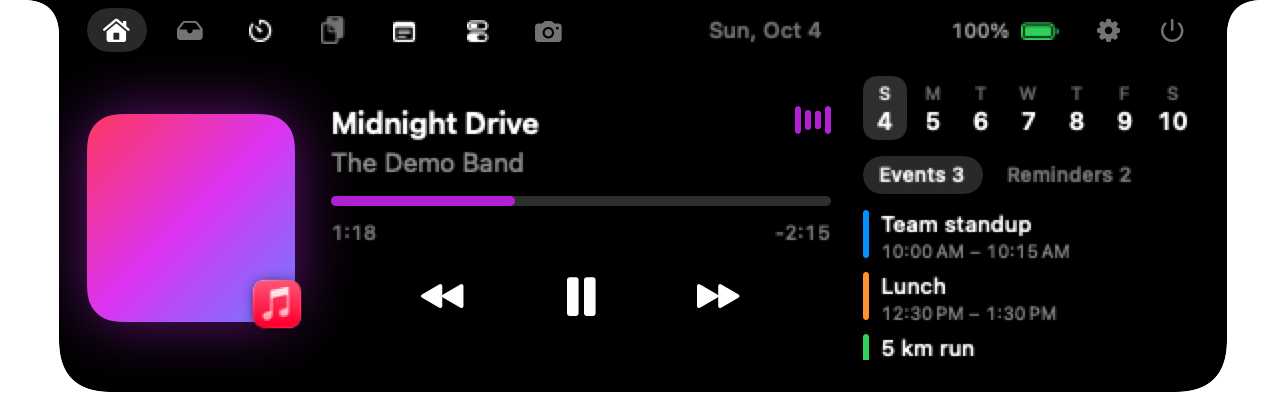
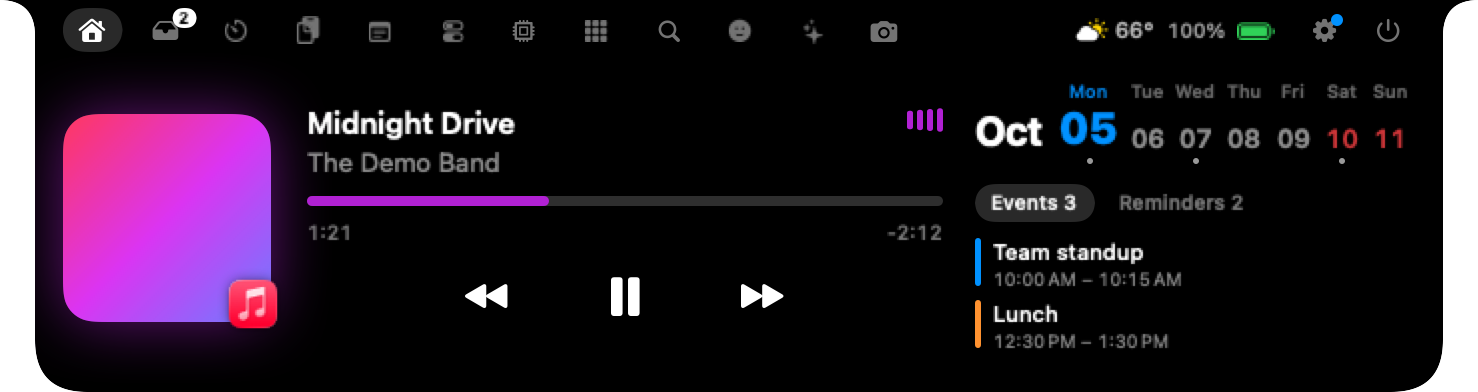
README and site: sections for calls and the closed notch, new features in place, fresh screenshots of Home, Tools, calls and idle ears

diff --git a/docs/index.html b/docs/index.html
@@ -262,7 +262,7 @@
         <div class="menubar"><div class="l"><b></b><b>Nunsseop</b><span class="en">File</span><span class="ko">파일</span><span class="en">Edit</span><span class="ko">편집</span></div><div class="r"><span>100%</span><span id="clock">9:41</span></div></div>
         <div class="live-notch" id="notch" role="button" tabindex="0" aria-label="Open the notch">
           <div class="ears"><span class="art"></span><span class="bars"><i></i><i></i><i></i><i></i></span></div>
-          <img src="images/home.png" alt="Expanded notch with now playing and calendar" width="643" height="208">
+          <img src="images/home.png" alt="Expanded notch with now playing and calendar" width="739" height="196">
         </div>
       </div>
     </div>
@@ -383,8 +383,8 @@
       <article class="tile t-half reveal">
         <div class="ico">🧩</div>
         <h3><span class="en">Make it yours</span><span class="ko">내게 맞게 구성</span></h3>
-        <p class="en">Pick your tabs and their order, what the header and the collapsed notch show, and which pop-ups you get. Even when idle, each side of the collapsed notch can show Claude Code usage left, battery, weather or the date. Anything you turn off stops running. On macOS 26 it wears Liquid Glass, and it can hide while the lid is closed.</p>
-        <p class="ko">탭과 순서, 헤더와 접힌 노치에 보일 것, 받을 알림을 직접 고르세요. 평소에도 접힌 노치 양쪽에 Claude Code 남은 양, 배터리, 날씨, 날짜를 띄워 둘 수 있어요. 꺼 둔 기능은 동작하지 않습니다. macOS 26에서는 Liquid Glass로 그려지고, 덮개를 닫았을 때 숨길 수도 있어요.</p>
+        <p class="en">Pick your tabs and their order, what the header and the collapsed notch show, and which pop-ups you get. During a call it shows the call app and how long you've been talking, and when idle each side of the collapsed notch can show Claude Code usage left, battery, weather or the date. Anything you turn off stops running. On macOS 26 it wears Liquid Glass, and it can hide while the lid is closed.</p>
+        <p class="ko">탭과 순서, 헤더와 접힌 노치에 보일 것, 받을 알림을 직접 고르세요. 통화 중에는 통화 앱과 통화 시간이, 평소에는 접힌 노치 양쪽에 Claude Code 남은 양, 배터리, 날씨, 날짜를 띄워 둘 수 있어요. 꺼 둔 기능은 동작하지 않습니다. macOS 26에서는 Liquid Glass로 그려지고, 덮개를 닫았을 때 숨길 수도 있어요.</p>
       </article>
       <article class="tile t-half reveal">
         <div class="ico">🌏</div>
@@ -576,7 +576,7 @@ open build/Nunsseop.app</pre></div>
     { e: '📥', img: 'shelf.png', en: ['Shelf', 'Drop files on the notch and drag them out later. Drop them on the AirDrop tile to send them straight away.'], ko: ['선반', '파일을 노치에 놓아 두고 나중에 끌어내세요. AirDrop 칸에 놓으면 바로 보내집니다.'] },
     { e: '✨', img: 'tab-ai.png', en: ['AI usage', 'Claude Code and Codex limits with reset times, plus Claude Code’s recent token use. No login, nothing to set up.'], ko: ['AI 사용량', 'Claude Code와 Codex의 한도와 초기화 시각, Claude Code의 최근 토큰 사용량. 로그인도 설정도 필요 없습니다.'] },
     { e: '⏱', img: 'tab-timer.png', en: ['Timer', 'Countdown, Pomodoro and stopwatch. The time left stays on the collapsed notch.'], ko: ['타이머', '카운트다운, 뽀모도로, 스톱워치. 접힌 노치에 남은 시간이 그대로 보입니다.'] },
-    { e: '🎛', img: 'tab-tools.png', en: ['Tools', 'Switch speakers, mute the mic, keep the Mac awake, record the screen and eject drives.'], ko: ['도구', '스피커 전환, 마이크 음소거, 잠자기 방지, 화면 녹화, 드라이브 꺼내기.'] },
+    { e: '🎛', img: 'tab-tools.png', en: ['Tools', 'Switch speakers, mute the mic, keep the Mac awake, record the screen, eject drives, pick a color from the screen and copy text out of any part of it.'], ko: ['도구', '스피커 전환, 마이크 음소거, 잠자기 방지, 화면 녹화, 드라이브 꺼내기, 화면에서 색 찍기와 글자 복사.'] },
     { e: '📊', img: 'tab-system.png', en: ['System', 'CPU, memory, disk and network at a glance, plus your mouse and keyboard batteries.'], ko: ['시스템', 'CPU, 메모리, 디스크, 네트워크를 한눈에. 마우스와 키보드 배터리도 함께.'] },
     { e: '😀', img: 'tab-emoji.png', en: ['Emoji', 'Every emoji, searchable by name, with your recent picks first. Click to copy.'], ko: ['이모지', '모든 이모지를 이름으로 검색하고, 최근에 쓴 것부터. 클릭하면 복사됩니다.'] }
   ];

diff --git a/README.md b/README.md
@@ -4,7 +4,7 @@
 
 <p align="center">
   <b>Your MacBook notch, finally useful.</b><br>
-  Music, files, a Spotlight-style launcher, AI usage, your calendar and system HUDs, one hover away.
+  Music, calls, files, a Spotlight-style launcher, AI usage, your calendar and system HUDs, one hover away.
 </p>
 
 <p align="center">
@@ -59,8 +59,9 @@ There's no Dock icon. Nunsseop lives in the notch.
 | :---: | :---: |
 | <img src="docs/images/tab-search.png" alt="Search showing an app, a command and a setting"><br>**Search.** A launcher for apps, files, commands, clipboard, emoji and sums, on any shortcut you like. | <img src="docs/images/tab-ai.png" alt="AI usage for Claude Code and Codex"><br>**AI usage.** Claude Code and Codex limits, no login needed. |
 | <img src="docs/images/shelf.png" alt="File shelf with AirDrop tile"><br>**Shelf.** Park files in the notch, or drop them on AirDrop. | <img src="docs/images/tab-timer.png" alt="Timer tab"><br>**Timer.** Countdown, Pomodoro and stopwatch. |
-| <img src="docs/images/tab-tools.png" alt="Tools tab"><br>**Tools.** Audio output, mic mute, keep awake, screen recording. | <img src="docs/images/tab-system.png" alt="System tab with device batteries"><br>**System.** CPU, memory, disk, network and device batteries. |
+| <img src="docs/images/tab-tools.png" alt="Tools tab"><br>**Tools.** Audio output, mic mute, keep awake, screen recording, color picker and text capture. | <img src="docs/images/tab-system.png" alt="System tab with device batteries"><br>**System.** CPU, memory, disk, network and device batteries. |
 | <img src="docs/images/tab-emoji.png" alt="Emoji picker"><br>**Emoji.** Every emoji, searchable, one click to copy. | <img src="docs/images/hud-headphones.png" alt="Headphone battery HUD"><br>**HUDs.** Volume, brightness, AirPods battery and more. |
+| <img src="docs/images/collapsed-call.png" alt="Collapsed notch during a Zoom call"><br>**Calls.** The call app and how long you've been talking. | <img src="docs/images/collapsed-idle.png" alt="Collapsed notch showing Claude Code usage left and weather"><br>**At a glance.** Pick what each side of the closed notch shows. |
 
 ## Everything it does
 
@@ -68,20 +69,26 @@ There's no Dock icon. Nunsseop lives in the notch.
 - **Now playing from any app.** Music, Spotify, YouTube Music, and browsers like Safari, Chrome, Arc, Dia and Aside. Artwork, controls and a progress bar you can drag.
 - **Synced lyrics** from [LRCLIB](https://lrclib.net), under the title or under the notch while you work.
 - **Sneak peek.** When the track changes, the title slides out for a moment.
+- **Podcasts and long videos** get 15-second skips and a speed button (1× to 2×), when the player supports them.
 
 **🗂 Get things done**
 - **Shelf.** Drag files onto the notch and back out later. Screenshots and finished downloads can land there automatically.
-- **Calendar and reminders.** Your week, today's events, and reminders you can tick off.
+- **Calendar and reminders.** Today in large digits, your week with a dot on busy days, today's events, and reminders you can tick off.
 - **Search that can replace Spotlight or Raycast.** Apps (even ones outside Applications), files, system commands and settings, clipboard history, emoji (start with `:`) and sums like `12*(3+4)`, ranked by what you open most. Initials work: `vsc` finds Visual Studio Code. Arrow keys pick, Return opens.
 - **Your shortcut.** <kbd>⇧⌘Space</kbd> by default, or record any combination in Settings. Nunsseop tells you when macOS or another app already uses it.
-- **Timer, clipboard history, notes and an emoji picker.** Clipboard history stays in memory and skips anything a password manager marks as secret.
+- **Timer, clipboard history, notes and an emoji picker.** Clipboard history stays in memory and skips anything a password manager marks as secret. Tracking parameters like `utm_` and `fbclid` are stripped from links you copy.
 
 **💻 Your Mac**
 - **System HUDs.** Volume, brightness (including DDC external displays), keyboard backlight, charging, Caps Lock and AirPods battery appear in the notch. It can take over the volume and brightness keys so the system HUD stays away.
 - **System stats and batteries.** CPU, memory, disk, network, plus your mouse, keyboard and trackpad, with a warning when one runs low.
 - **Camera and mic indicator.** A dot on the notch while any app uses them.
-- **Tools.** Switch audio output, mute the mic, keep the Mac awake, record the screen and eject drives.
+- **Tools.** Switch audio output, mute the mic, keep the Mac awake, record the screen, eject drives, pick a color from anywhere on screen, and copy the text out of any part of the screen.
 - **Weather, downloads, mirror and Dock apps**, one hover away.
+
+**📞 Even when it's closed**
+- **Calls.** During a call in Zoom, FaceTime, Teams, Slack, Discord, WhatsApp or Google Meet, the closed notch shows the app and how long you've been talking. It goes by which app uses the microphone, so no extra permissions are needed.
+- **Your pick on each side.** When nothing is playing, show Claude Code or Codex usage left, battery, weather or the date.
+- **Music and timers.** Tiny artwork and a visualizer while music plays, and the time left while a timer runs.
 
 **🤖 For developers**
 - **AI usage.** Claude Code and Codex limits with reset times, and Claude Code's token use over the last 5 hours and 7 days. Read from files those tools already keep on your Mac, so there's nothing to sign in to.
@@ -89,10 +96,6 @@ There's no Dock icon. Nunsseop lives in the notch.
 
 **🧩 Make it yours**
 - Pick your tabs and their order, what the header and collapsed notch show, and which pop-ups you get. **Anything you turn off stops running.**
-- During a call in Zoom, FaceTime, Teams, Slack, Discord or Google Meet, the collapsed notch shows the app and how long you've been talking. No extra permissions needed.
-- Podcasts and long videos get 15-second skips and a speed button (1× to 2×).
-- The Tools tab picks a color from anywhere on screen and copies text out of any part of the screen. Tracking parameters are stripped from links you copy.
-- Even when nothing is playing, each side of the collapsed notch can show something you pick: Claude Code or Codex usage left, battery, weather or the date.
 - On macOS 26 the expanded notch and its cards use Liquid Glass, so what's behind shows through softly. You can set how dark the glass is, or switch back to solid black.
 - Choose the display, size and hover delay, launch at login, and hide the notch while the lid is closed.
 - Swipe down to open, up to close, sideways on Home to skip tracks.
@@ -139,7 +142,7 @@ Claude's 5-hour and weekly percentages come from the cache the [oh-my-claudecode
 <details>
 <summary><b>Volume keys stopped showing Nunsseop's HUD after an update.</b></summary>
 
-Builds are ad-hoc signed, so macOS can forget the Accessibility permission. Remove Nunsseop from System Settings → Privacy & Security → Accessibility, add it again, then restart Nunsseop.
+Versions before 0.8.3 were signed in a way that made macOS forget the Accessibility permission on every update. Since 0.8.3 it's kept. If you came from an older version, remove Nunsseop from System Settings → Privacy & Security → Accessibility once and allow it again; it takes effect without a restart.
 </details>
 
 ## Claude Code notifications
@@ -175,10 +178,11 @@ Nunsseop asks for a permission only when you first use the feature that needs it
 | Calendar | Calendars | When you press *Allow Access* on the Home tab |
 | Reminders | Reminders | When you press *Allow Reminders* on the Home tab |
 | Mirror | Camera | When you press *Allow Camera* on the Mirror tab |
-| Screen recording | Screen Recording | The first time you start a recording |
+| Screen recording, and copying text from other apps' windows | Screen Recording | The first time you start a recording or capture text |
 | Recording with sound | Microphone | The first time you record with microphone audio on |
 | Taking over volume, brightness and keyboard backlight keys | Accessibility | When you turn the option on in Settings |
 | Fallback now playing for Music, Spotify and browsers | Automation | Only if the MediaRemote helper is unavailable |
+| Showing Google Meet, Zoom and Teams calls in a browser | Automation (that browser) | When a browser first uses the microphone |
 | Launch at login | Login Items | When you turn it on in Settings |
 
 ## Privacy
@@ -187,7 +191,7 @@ Nunsseop doesn't collect or send personal data. It goes online only to:
 
 - check `api.github.com` for a newer release once a day (can be turned off);
 - look up synced lyrics on `lrclib.net` (can be turned off);
-- fetch weather from `open-meteo.com` for the city you enter (off until you enter one);
+- fetch weather from `open-meteo.com` for the city you enter (off until you enter one), asking Apple's geocoder for the city's location when Open-Meteo can't find it;
 - download artwork over HTTPS from known music services, only when the MediaRemote helper is unavailable.
 
 Everything else stays on your Mac. The notification server only accepts connections from this Mac. AI usage is read from local files. Recordings are saved next to your screenshots. The camera preview runs only while the Mirror tab is open and is never recorded. Clipboard history is cleared when Nunsseop quits.
